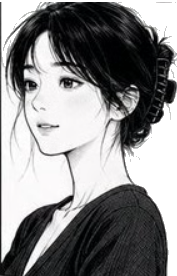
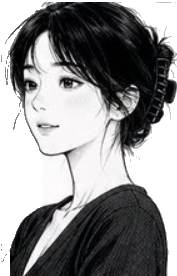
comic: 修 sketch/adult_female 左緣去背 + 移除 effect-lines 背景 + 新劇本「只睡一個小時」
- sketch/adult_female.png:清掉左緣殘留黑框線,並把左側漏掉的灰底泛洪成透明
  (原圖已遺失,直接就地修:限左側區域、遇頭髮即停,臉/髮不動)。
- 移除背景 effect-lines(effectlines_color.jpg 檔 + backgrounds.js/md 登記);
  動手術劇本第 1 格改用 plain(不再依賴 effect-lines)。
- 新劇本「2026-07-04 只睡一個小時」(default):女星(adult_female)vs 記者(old_man),
  4 格含記者畫外音反轉;對白白底黑字方框。

diff --git a/comic/js/backgrounds.js b/comic/js/backgrounds.js
@@ -39,9 +39,6 @@ export const BACKGROUNDS_BY_STYLE = {
     'sky-blue':      { file: 'sky_blue.jpg', tags: ['天空', '藍天', '雲', '白天', '戶外'] },
     'horizon-field': { file: 'bg_chiheisen_green.jpg', tags: ['地平線', '草地', '天空', '戶外', '白天', '空曠'] },
     'night-moon':    { file: 'bg_moon_sky_mikaduki.jpg', tags: ['夜晚', '天空', '月亮', '星空', '戶外'] },
-
-    // 特效
-    'effect-lines':  { file: 'effectlines_color.jpg', tags: ['效果線', '爆炸', '速度', '動作', '強調'] },
   },
 
   // 寫實黑白素描畫風:尚無背景(需另備寫實/黑白底圖)。

diff --git a/comic/backgrounds.md b/comic/backgrounds.md
@@ -31,7 +31,6 @@
 | sky-blue | sky_blue.jpg | 藍天白雲 | 天空 · 藍天 · 雲 · 白天 · 戶外 |
 | horizon-field | bg_chiheisen_green.jpg | 草原地平線 | 地平線 · 草地 · 天空 · 戶外 · 白天 · 空曠 |
 | night-moon | bg_moon_sky_mikaduki.jpg | 夜空月亮 | 夜晚 · 天空 · 月亮 · 星空 · 戶外 |
-| effect-lines | effectlines_color.jpg | 效果線(強調/爆發) | 效果線 · 爆炸 · 速度 · 動作 · 強調 |
 
 ## sketch(寫實黑白素描)
 
